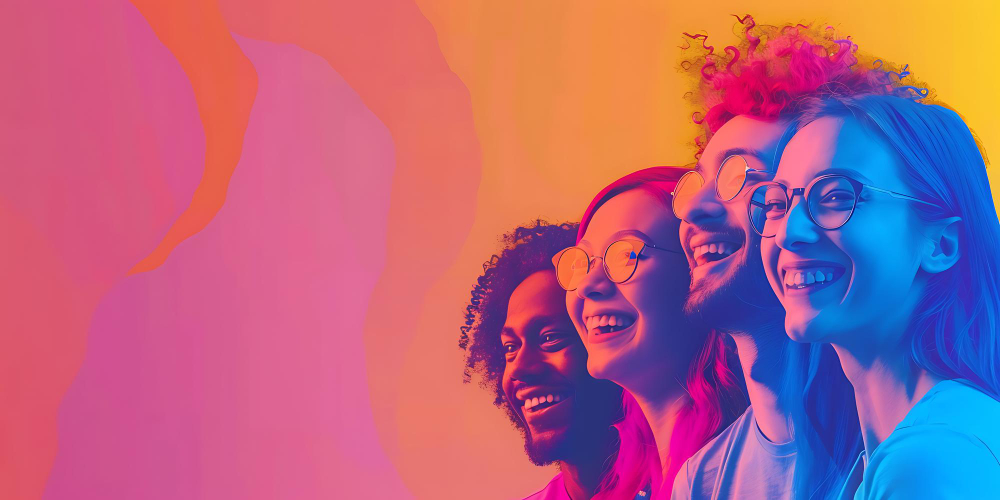
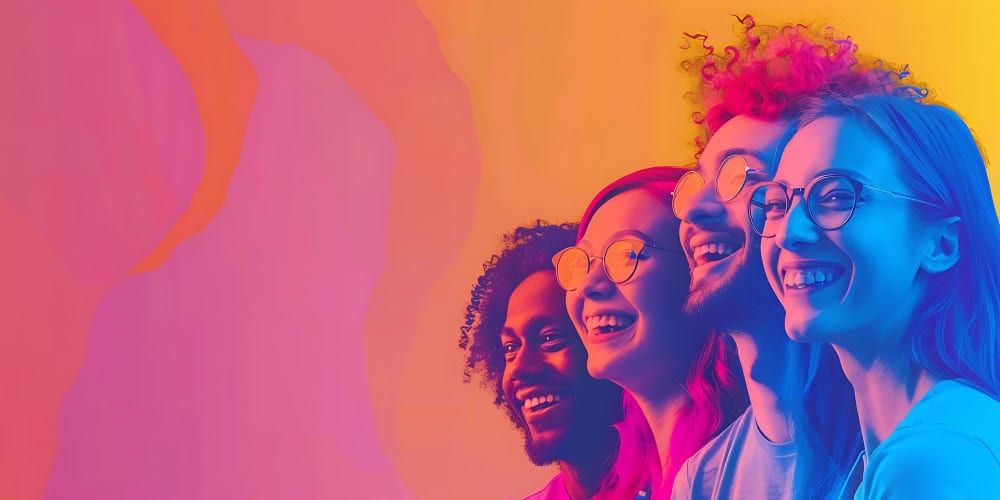
careers: optimise happy-team.jpg and use it as the hero background
- Compressed the source from 222 KB to 44 KB (mozjpeg q82,
  progressive, 4:2:0 chroma). Also generated a 29 KB WebP for any
  use case that bypasses the Next image optimiser.
- Wired the photo into the hero as a full-bleed <Image fill
  priority> so the optimiser serves AVIF/WebP on modern browsers.
  Kept a layered scrim on top: base dark bg-[var(--aci-secondary)]
  on the section, a dark navy gradient over the photo so the
  headline and chips stay legible, and the existing subtle blue
  and purple blur-blobs muted at 10 percent so they read as
  ambient colour, not competing decoration.
- Dropped two unused imports (Link, Users) picked up by the earlier
  extraction of the job grid into a client component.

diff --git a/aci-infotech/src/app/careers/page.tsx b/aci-infotech/src/app/careers/page.tsx
@@ -1,7 +1,7 @@
 import { Metadata } from 'next';
-import Link from 'next/link';
+import Image from 'next/image';
 import { createClient } from '@supabase/supabase-js';
-import { Briefcase, Heart, Building2, Users, Globe, Zap, Award, Coffee, TrendingUp, ArrowRight } from 'lucide-react';
+import { Briefcase, Heart, Building2, Globe, Zap, Award, Coffee, TrendingUp, ArrowRight } from 'lucide-react';
 import Button from '@/components/ui/Button';
 import CareersJobGrid from '@/components/careers/CareersJobGrid';
 
@@ -131,8 +131,26 @@ export default async function CareersPage() {
     <main className="min-h-screen">
       {/* Hero Section */}
       <section className="relative bg-[var(--aci-secondary)] pt-32 pb-24 overflow-hidden">
-        {/* Background Pattern */}
-        <div className="absolute inset-0 opacity-10">
+        {/* Photographic background. The image is pre-optimised (44 KB
+            jpg / 29 KB webp); Next's Image optimiser serves AVIF/WebP
+            on modern browsers. A layered scrim (base dark fill + dark
+            gradient + subtle accent blobs) keeps the headline and
+            stats strip legible regardless of what is on top of the
+            photo. */}
+        <Image
+          src="/images/happy-team.jpg"
+          alt=""
+          fill
+          priority
+          sizes="100vw"
+          className="object-cover"
+          aria-hidden
+        />
+        <div
+          className="absolute inset-0 bg-gradient-to-b from-[#0A1628]/80 via-[#0A1628]/75 to-[#0A1628]/90"
+          aria-hidden
+        />
+        <div className="absolute inset-0 opacity-10 pointer-events-none" aria-hidden>
           <div className="absolute top-20 left-10 w-72 h-72 bg-blue-500 rounded-full blur-3xl" />
           <div className="absolute bottom-10 right-10 w-96 h-96 bg-purple-500 rounded-full blur-3xl" />
         </div>
